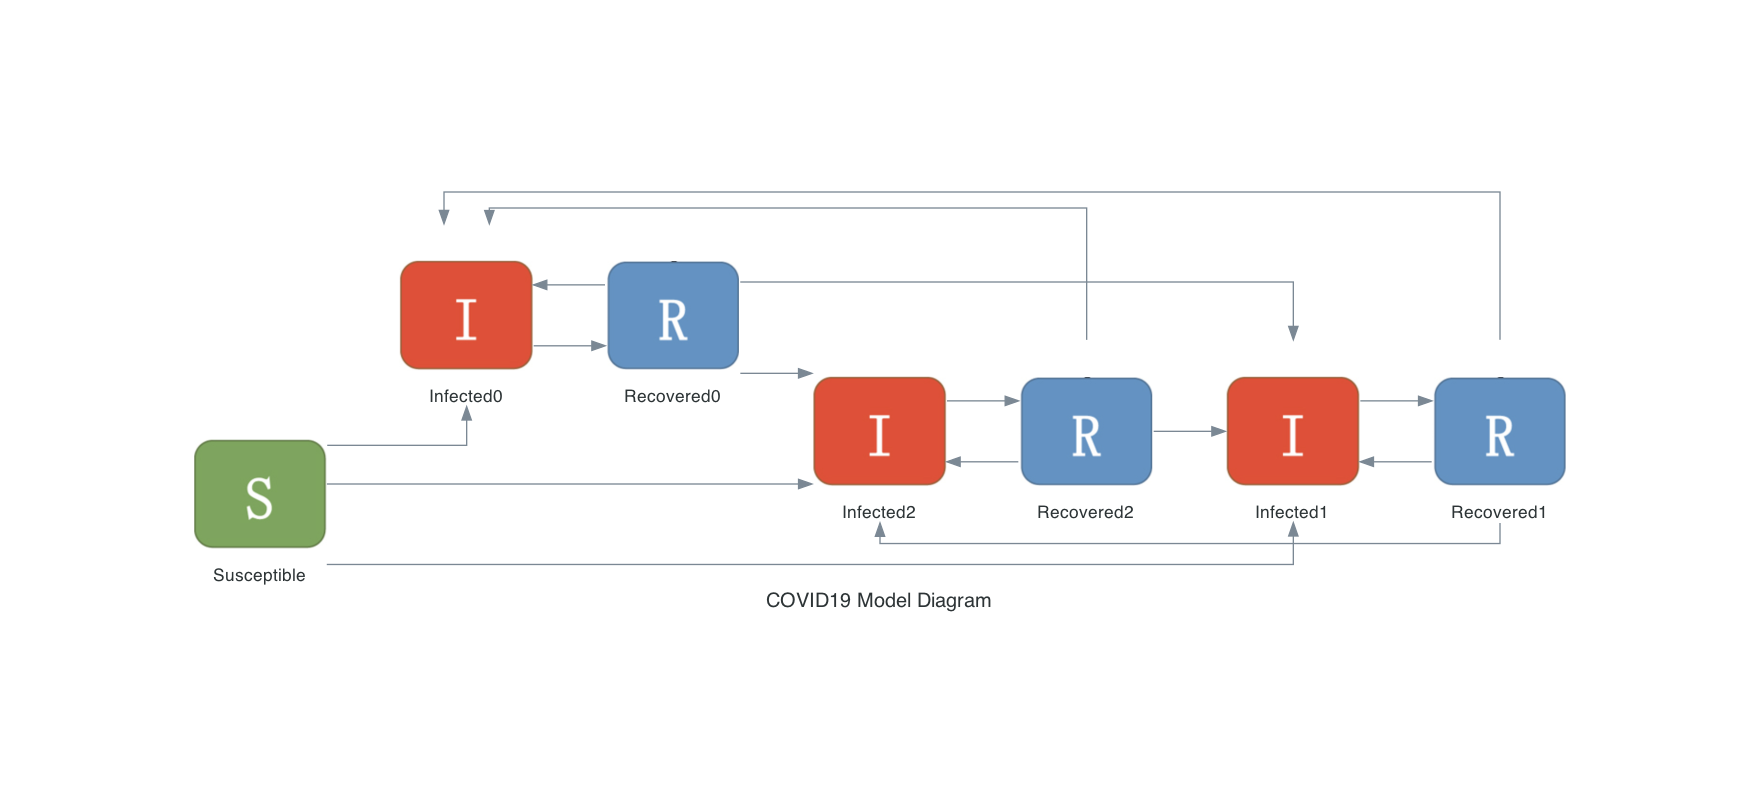
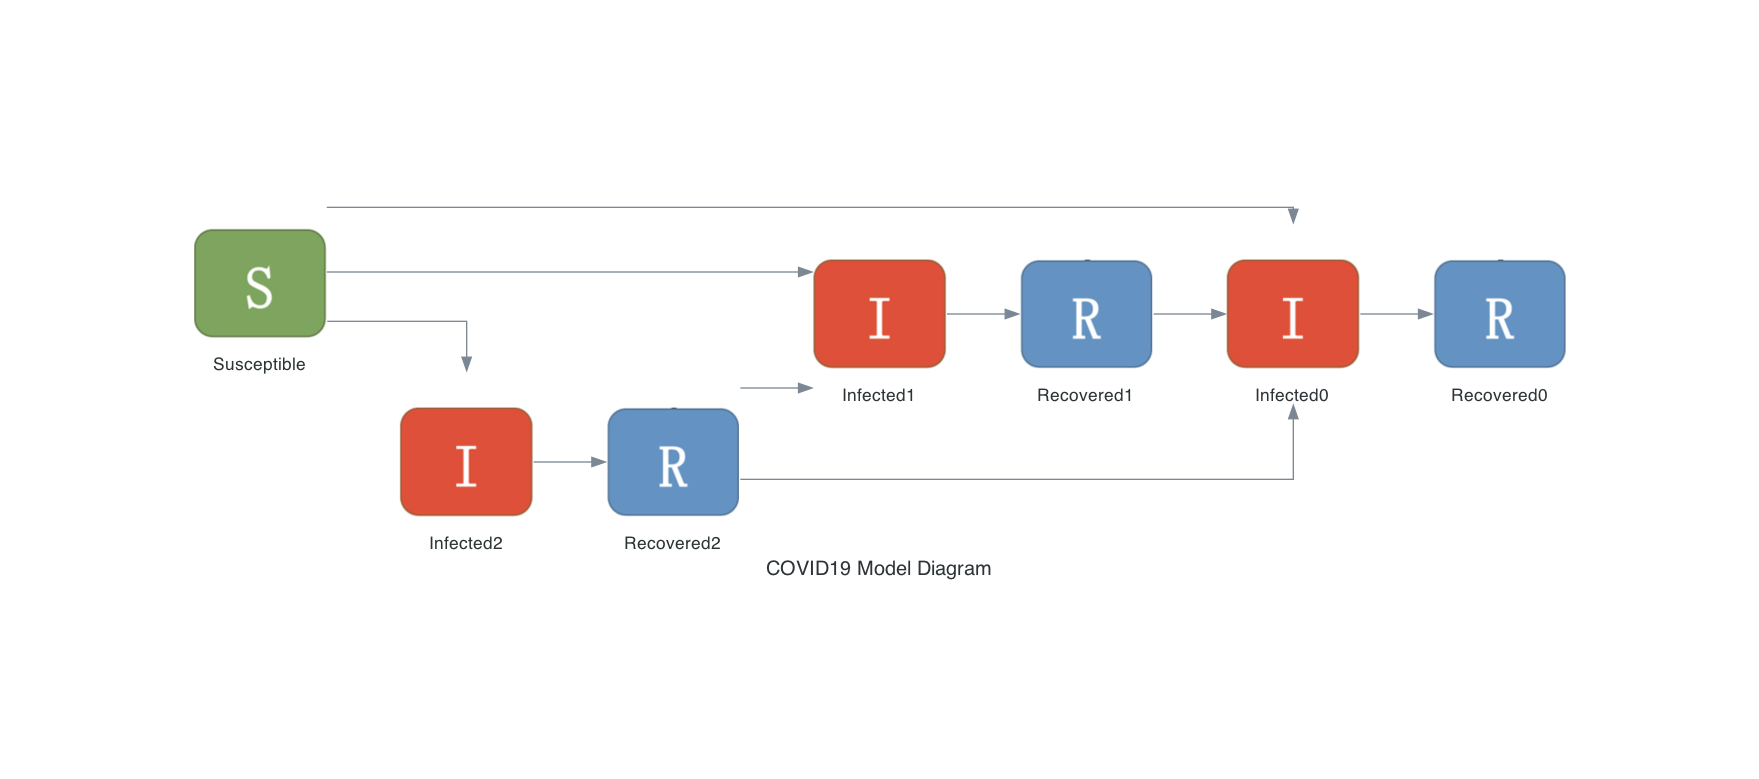
GraphGeneratorWorks

diff --git a/Scenario 1/GraphBuilder/GraphGenerator.py b/Scenario 1/GraphBuilder/GraphGenerator.py
@@ -7,8 +7,8 @@ from diagrams.custom import Custom
 
 class GraphGenerator:
 
-    def __init__(self, viruses):
-        with Diagram("COVID19 Model Diagram", show=False, filename="model_diagram"):
+    def __init__(self, viruses, CrossInfectionMatrix):
+        with Diagram("COVID19 Model Diagram", show=False, filename="model_diagram", direction="LR"):
             s_box = Custom("Susceptible", "./my_resources/s_box.png")
             infectedBoxes = {}
             recoveredBoxes = {}
@@ -23,10 +23,11 @@ class GraphGenerator:
                 s_box >> infectedBoxes.get(key)
             
             idx = 0
-            for key in infectedBoxes: 
+            for i, key in enumerate(infectedBoxes, start=0): 
                 infectedBoxes.get(key) >> recoveredBoxes.get(idx)
-                for idx2 in range(0, len(recoveredBoxes.keys())): 
-                    recoveredBoxes.get(idx2) >> infectedBoxes.get(key)
+                for j in range(0, len(recoveredBoxes.keys())): 
+                    if (CrossInfectionMatrix[i][j] != 0):
+                        recoveredBoxes.get(j) >> infectedBoxes.get(key)
                 idx += 1
                 
                 

diff --git a/Scenario 1/GraphBuilder/main.py b/Scenario 1/GraphBuilder/main.py
@@ -53,7 +53,7 @@ def main(argv):
     equations = model.getEquations()
 
     EquationsGenerator(equations)
-    GraphGenerator(viruses)
+    GraphGenerator(viruses, crossInfectionMatrix)
 
 if __name__ == "__main__":
     main(sys.argv[1:])
